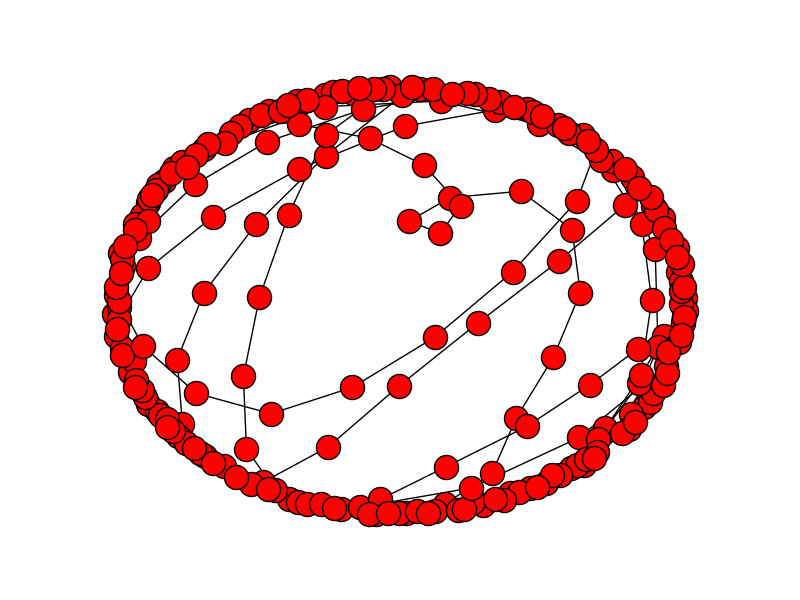
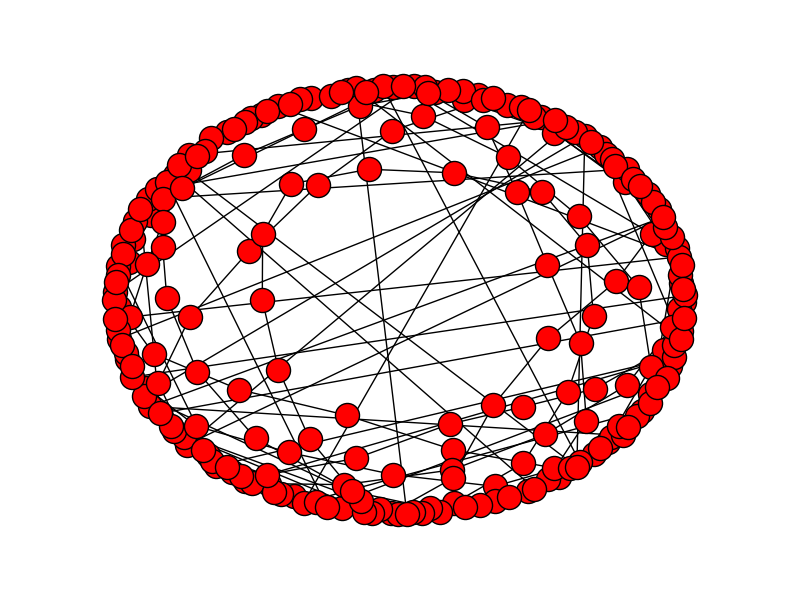
stuff

Changed region(s): [[0.125, 0.12, 0.875, 0.9]]

diff --git a/newgraph.py b/newgraph.py
@@ -1,0 +1,28 @@
+#!/usr/bin/env python
+
+from __future__ import absolute_import
+from __future__ import unicode_literals
+from __future__ import print_function
+from __future__ import division
+
+import pygraphviz as pgv
+# strict (no parallel edges)
+# digraph
+# with attribute rankdir set to 'LR'
+A=pgv.AGraph(directed=True,strict=True,rankdir='LR')
+# add node 1 with color red
+A.add_node(1,color='red')
+A.add_node(5,color='blue')
+# add some edges
+A.add_edge(1,2,color='green')
+A.add_edge(2,3)
+A.add_edge(1,3)
+A.add_edge(3,4)
+A.add_edge(3,5)
+A.add_edge(3,6)
+A.add_edge(4,6)
+# adjust a graph parameter
+A.graph_attr['epsilon']='0.001'
+print(A.string()) # print dot file to standard output
+A.layout('dot') # layout with dot
+A.draw('foo.png') # write to file

diff --git a/plot.py b/plot.py
@@ -24,12 +24,13 @@ for i in range(len(mylist)):
    #print mysplit
     start = mysplit[1]
     end = mysplit[2]
-    #w = int(mysplit[3])
+    w = (int(mysplit[3])/100000)
     #print type(w)
     tup = (start,end)
     tuplist.append(tup)
-    G.add_edge(start, end)#, weight= (w/1000))
-
+    #G.add_edge(start, end)#, weight= (w/1000))
+    G.add_edge(start,end,color='red',weight=w,size=10)
+    
 print("Length of tuple list")
 print (len(tuplist))
                             
@@ -40,5 +41,5 @@ print("Number of Edges of graph: ")
 print(len(G.edges()))
 
 nx.draw(G)
-plt.savefig("mypath2.png") # save as png
+plt.savefig("edges.png") # save as png
 plt.show() # display
